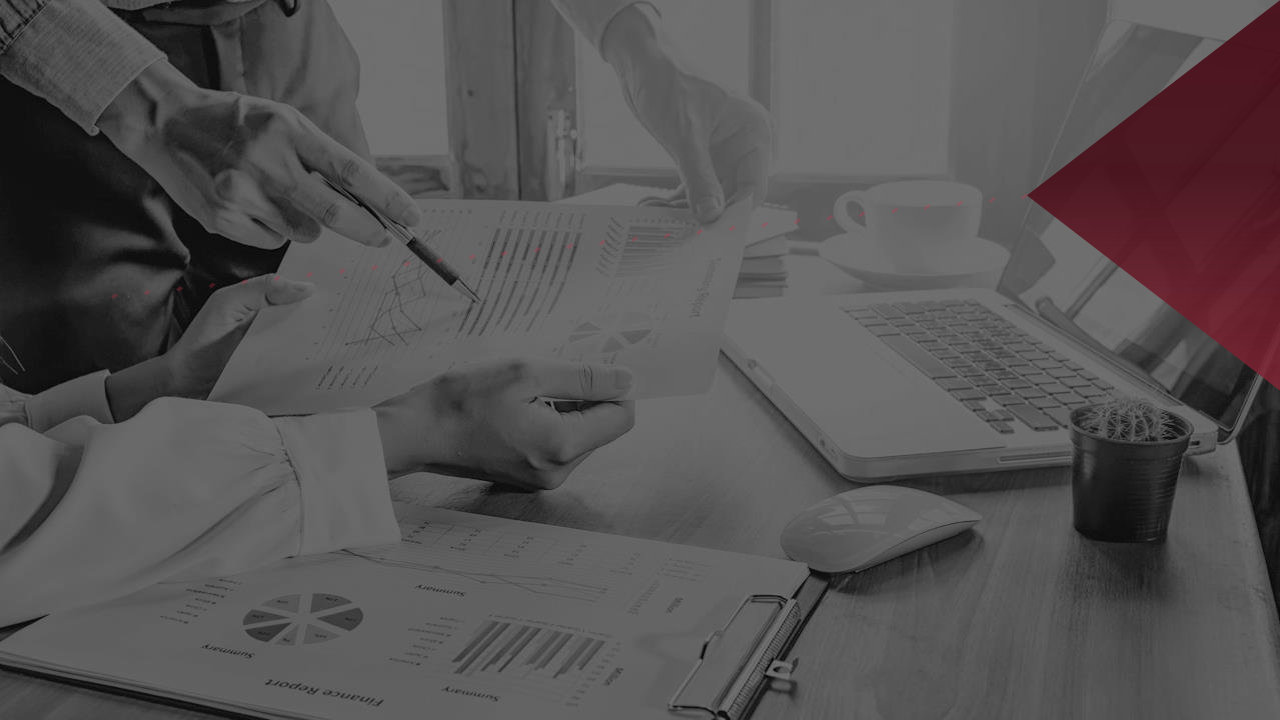
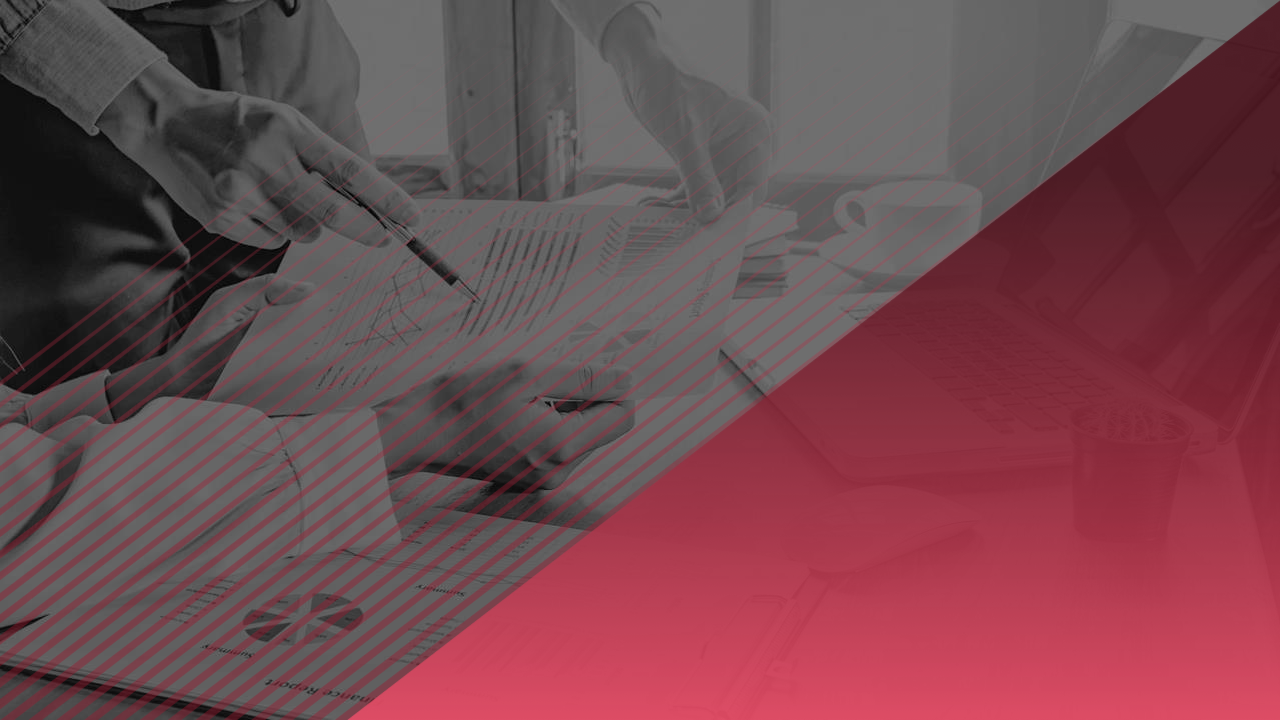
Se completo el esilo de colores de la tabla para la presentacion

diff --git a/src/main/java/com/organizame/reportes/service/ReportePresentacionService.java b/src/main/java/com/organizame/reportes/service/ReportePresentacionService.java
@@ -4,7 +4,6 @@ import com.organizame.reportes.dto.DaoPeriodo;
 import com.organizame.reportes.dto.DaoResumenPeriodo;
 import com.organizame.reportes.dto.FilaTabla;
 import com.organizame.reportes.dto.auxiliar.Acumulado;
-import com.organizame.reportes.dto.auxiliar.PortadaTotales;
 import com.organizame.reportes.dto.request.RequestOrigen;
 import com.organizame.reportes.exceptions.GraficaException;
 import com.organizame.reportes.exceptions.SinDatos;
@@ -13,11 +12,8 @@ import com.organizame.reportes.utils.excel.dto.PosicionGrafica;
 import com.organizame.reportes.utils.graficas.graficas2;
 import com.organizame.reportes.utils.presentacion.CrearPresentacion;
 import com.organizame.reportes.utils.presentacion.TipoDiapositiva;
+import com.organizame.reportes.utils.presentacion.dto.ColorPresentacion;
 import lombok.extern.slf4j.Slf4j;
-import org.apache.poi.xslf.usermodel.XMLSlideShow;
-import org.apache.poi.xslf.usermodel.XSLFAutoShape;
-import org.apache.poi.xslf.usermodel.XSLFShape;
-import org.apache.poi.xslf.usermodel.XSLFTextShape;
 import org.springframework.beans.factory.annotation.Autowired;
 import org.springframework.core.io.Resource;
 import org.springframework.core.io.ResourceLoader;
@@ -30,7 +26,6 @@ import java.time.LocalDate;
 import java.time.format.DateTimeFormatter;
 import java.util.ArrayList;
 import java.util.List;
-import java.util.Optional;
 import java.util.Set;
 
 @Slf4j
@@ -74,11 +69,12 @@ public class ReportePresentacionService {
                     request.getOrigen() + " en " + request.getMesReporte() + " meses antes de " + request.getMesFinal() );
         }
         this.nombreArchivo = "Ventas origen_" + request.getOrigen() + " " + request.getMesFinal().format(DateTimeFormatter.ofPattern("LLLL yyyy"));
+
         //Datos resumidos
         Set<DaoResumenPeriodo> filtrado = service.ResumeData(resultado);
 
         //Datos para hojas
-        CrearPresentacion presentacion = new CrearPresentacion(bg_contenido,  bg_portada);
+        CrearPresentacion presentacion = new CrearPresentacion(bg_contenido,  bg_portada, this.creaColoresBase());
         LocalDate fechaInicial = request.getMesFinal().minusMonths(request.getMesReporte());
         String fecha = fechaSmall.format(fechaInicial) + "-" + fechaSmall.format(request.getMesFinal());
 
@@ -96,21 +92,31 @@ public class ReportePresentacionService {
         var totalIndustria = service.getTotalIntustria();
         var totalOrigen = service.getTotalOrigen(request);
 
-        var portadaAcumulados = service.getPortadaAcumulados(filtrado, totalIndustria.orElse(0), totalOrigen.orElse(0));
+        var portadaAcumulados = service.getPortadaAcumulados(filtrado, totalIndustria.orElse(1), totalOrigen.orElse(1));
+        var acumuladoCorregido = portadaAcumulados.stream()
+                .map(acumulado -> {
+                    return new Acumulado(
+                            acumulado.getFabricante(),
+                            acumulado.getLineas(),
+                            acumulado.getVolumen(),
+                            acumulado.getPeso() * 100,
+                            acumulado.getPorcentajeIndustria() * 100
+                    );
+                })
+                .toList();
         var portadaTotales = service.getPortadaTotales(filtrado);
         // Genera portada
 
         var portada = presentacion.crearDiapositiva(TipoDiapositiva.PORTADA);
 
-
-        presentacion.creaTexto(portada, "ANÁLISIS VENTAS" +
-                "DE VEHÍCULOS\n" +
-                "DE ORIGEN " + request.getOrigen().toUpperCase(), new PosicionGrafica(100,42,30,30), "FAFAFA");
+        presentacion.creaTexto(portada, "ANÁLISIS VENTAS DE VEHÍCULOS DE ORIGEN "
+                        + request.getOrigen().toUpperCase(),
+                new PosicionGrafica(80,52,40,20), "Portada");
 
 
         var portada2 = presentacion.crearDiapositiva(TipoDiapositiva.CONTENIDO);
 
-        var portPos = new PosicionGrafica(2,2, 35, 35);
+        var portPos = new PosicionGrafica(2,2, 64, 35);
         presentacion.creaTexto(portada2, """
                         En la industria mexicana, 6 marcas
                         comercializan {{MODELOS}} vehículos de
@@ -118,21 +124,21 @@ public class ReportePresentacionService {
                         se vendieron {{UNIDADES}} unidades, lo que
                         representó una participación de
                         mercado del {{PARTICIPACION}}% del total de la industria
-                        """.replace("{{MODELOS}}", portadaAcumulados.getLast().getLineas().toString())
+                        """.replace("{{MODELOS}}", acumuladoCorregido.getLast().getLineas().toString())
                         .replace("{{ORIGEN}}", request.getOrigen().toUpperCase())
                         .replace("{{PERIODO}}", fecha)
-                        .replace("{{UNIDADES}}", portadaAcumulados.getLast().getVolumen().toString())
-                        .replace("{{PARTICIPACION}}", formatoDecimal.format(portadaAcumulados.getLast().getPorcentajeIndustria()*100))
-                , portPos, "#234325");
+                        .replace("{{UNIDADES}}", acumuladoCorregido.getLast().getVolumen().toString())
+                        .replace("{{PARTICIPACION}}", formatoDecimal.format(acumuladoCorregido.getLast().getPorcentajeIndustria()))
+                , portPos, "normal2");
 
         portPos.setRow(38);
 
-        var stellantis = portadaAcumulados.stream()
+        var stellantis = acumuladoCorregido.stream()
                         .filter(acu -> acu.getFabricante().equalsIgnoreCase("STELLANTIS"))
                                 .findFirst();
 
         if(stellantis.isPresent()) {
-            var posicion = portadaAcumulados.indexOf(stellantis);
+            var posicion = acumuladoCorregido.indexOf(stellantis);
             var posicionString = convertirNumeroAOrdinal(posicion);
             presentacion.creaTexto(portada2, """
                             En el periodo {{PERIODO}}, Stellantis se
@@ -144,40 +150,27 @@ public class ReportePresentacionService {
                             .replace("{{PERIODO}}", fecha)
                             .replace("{{POSICION}}", posicionString)
                             .replace("{{UNIDADES}}", stellantis.get().getVolumen().toString())
-                            .replace("{{PARTICIPACION}}", formatoDecimal.format(stellantis.get().getPorcentajeIndustria()*100))
-                    , portPos, "#234325");
+                            .replace("{{PARTICIPACION}}", formatoDecimal.format(stellantis.get().getPorcentajeIndustria()))
+                    , portPos, "normal");
         }
 
         var portHeader = new FilaTabla("Encabezado", List.of("Marcas", "Número de lineas", "Volumen", "Peso", "% MS Industria total"));
         List<FilaTabla> acumuladosTabla = new ArrayList<>();
         acumuladosTabla.add(portHeader);
-        acumuladosTabla.addAll(portadaAcumulados.stream().map(Acumulado::getFilaTabla).toList());
+        acumuladosTabla.addAll(acumuladoCorregido.stream().map(acumulado -> acumulado.getFilaTabla(this.formatoDecimal)).toList());
         //Se imprime la tabla de acumulados
+        portPos.setCol(66);
+        portPos.setRow(2);
+        portPos.setAlto(70);
         presentacion.creaTablaEstilo(portada2, acumuladosTabla, portPos);
-        portPos.setCol(2);
-        portPos.addRows(2);
 
-        presentacion.creaTexto(portada2, "Total Industria " + fecha, portPos, "#232323");
-        portPos.addRows(1);
-
-        portPos.setCol(2);
-        var portResHeader = new FilaTabla("Encabezado",
-                List.of("Periodo", "Ventas modelos de origen " + request.getOrigen(), "Ventas totales de la Industria",
-                        "% de Market share"));
-        List<FilaTabla> vasmensuales = new ArrayList<>();
-        vasmensuales.add(portResHeader);
-        vasmensuales.addAll(portadaTotales.stream().map(PortadaTotales::getFilaTabla).toList());
-
-        presentacion.creaTablaEstilo(portada2, vasmensuales, portPos);
-
-
-
-
-        var tituloGrafica = "Ventas por Origen Brasil, Industria y Market Share";
         try {
-            presentacion.insertarGrafica(portada, graficas.createComboChart(tituloGrafica, portadaTotales, request.getOrigen()),
-                    new PosicionGrafica(200, 50, 160, 100),
-                    new PosicionGrafica(200, 50, 160, 100));
+            var grafica = presentacion.crearDiapositiva(TipoDiapositiva.CONTENIDO);
+            var tituloGrafica = "Ventas por Origen Brasil, Industria y Market Share";
+
+            presentacion.insertarGrafica(grafica, graficas.createComboChart(tituloGrafica, portadaTotales, request.getOrigen()),
+                    new PosicionGrafica(200, 50, 1600, 1000),
+                    new PosicionGrafica(66, 2, 64, 72));
         }catch (GraficaException e){
             log.info("Fallo la creacion de la grafica por: {}" , e.getMessage());
         }
@@ -322,5 +315,22 @@ public class ReportePresentacionService {
             case 10 -> "DÉCIMO";
             default -> String.valueOf(numero); // Si es mayor a 10, devuelve el número como cadena
         };
+    }
+
+    private List<ColorPresentacion> creaColoresBase(){
+        List<ColorPresentacion> colores = new ArrayList<>();
+        colores.add(new ColorPresentacion("Portada", "FFFFFF", "FAFAFA", 18, true));
+        colores.add(new ColorPresentacion("Normal", "FFFFFF", "002B7F", 16, true));
+        colores.add(new ColorPresentacion("Titulo", "FFFFFF", "000000", 18, true));
+        colores.add(new ColorPresentacion("Destacado", "FFFFFF", "FF0000", 18, true));
+        colores.add(new ColorPresentacion("Normal2", "FFFFFF", "373F66", 18, true));
+        colores.add(new ColorPresentacion("Numeracion", "F6C6CE", "9B182E", 18, true));
+        // Colores de tablas
+        colores.add(new ColorPresentacion("Encabezado", "002B7F", "FAFAFA", 12, true));
+        colores.add(new ColorPresentacion("Estandar", "FFFFFF", "000000", 11, false));
+        colores.add(new ColorPresentacion("Stellantis", "96938E", "FAFAFA", 11, false));
+        colores.add(new ColorPresentacion("RowOdd", "FAFAFA", "000000", 11, false));
+        colores.add(new ColorPresentacion("TOTAL", "000000", "FAFAFA", 11, true));
+        return colores;
     }
 }

diff --git a/src/main/java/com/organizame/reportes/utils/presentacion/CrearPresentacion.java b/src/main/java/com/organizame/reportes/utils/presentacion/CrearPresentacion.java
@@ -4,11 +4,12 @@ import com.organizame.reportes.dto.FilaTabla;
 import com.organizame.reportes.exceptions.ColorExcepcion;
 import com.organizame.reportes.exceptions.GraficaException;
 import com.organizame.reportes.exceptions.PresentacionException;
-import com.organizame.reportes.utils.Utilidades;
 import com.organizame.reportes.utils.excel.dto.*;
 import com.organizame.reportes.utils.presentacion.dto.ColorPresentacion;
 import lombok.extern.slf4j.Slf4j;
 import org.apache.poi.sl.usermodel.PictureData;
+import org.apache.poi.sl.usermodel.StrokeStyle;
+import org.apache.poi.sl.usermodel.TableCell;
 import org.apache.poi.xslf.usermodel.*;
 import org.jfree.chart.JFreeChart;
 import org.springframework.core.io.Resource;
@@ -89,17 +90,18 @@ public class CrearPresentacion {
 
 
 
-    public void creaTexto(XSLFSlide diapositiva, String texto, PosicionGrafica portPos, String color)  throws PresentacionException, ColorExcepcion {
+    public void creaTexto(XSLFSlide diapositiva, String texto, PosicionGrafica portPos, String colorNombre)  throws PresentacionException, ColorExcepcion {
+        var color = this.getColorPresentacion(colorNombre);
         XSLFTextBox textBox = diapositiva.createTextBox();
         textBox.setAnchor(this.getRectangle(portPos));
 
         XSLFTextParagraph paragraph = textBox.addNewTextParagraph();
         XSLFTextRun run = paragraph.addNewTextRun();
         run.setText(texto);
-        run.setFontSize(14.0);
-        run.setFontColor(Utilidades.convierteRGB(color));
+        run.setFontSize(color.getFontSize());
+        run.setFontColor(color.getFontColor());
         run.setFontFamily("Tahoma");
-        run.setBold(true);
+        run.setBold(color.isBold());
 
 
     }
@@ -116,6 +118,7 @@ public class CrearPresentacion {
 
     private void aplicaEstiloFila(XSLFTable tabla, FilaTabla fila,  int row){
         var estilo = this.getColorPresentacion(fila.getNombreEstilo());
+        log.info("Se recupero el estilo {} para {}", estilo, fila.getNombreEstilo());
         for (int col = 0; col < tabla.getNumberOfColumns(); col++) {
 
             XSLFTableCell cell = tabla.getCell(row, col);
@@ -127,6 +130,12 @@ public class CrearPresentacion {
             run.setFontSize(estilo.getFontSize());
             run.setFontColor(estilo.getFontColor());
             run.setBold(estilo.isBold());
+
+            // Aplicar bordes negros finos
+            cell.setBorderCap(TableCell.BorderEdge.bottom, StrokeStyle.LineCap.FLAT);
+            cell.setBorderCap(TableCell.BorderEdge.top, StrokeStyle.LineCap.FLAT);
+            cell.setBorderCap(TableCell.BorderEdge.left, StrokeStyle.LineCap.FLAT);
+            cell.setBorderCap(TableCell.BorderEdge.right, StrokeStyle.LineCap.FLAT);
         }
     }
 
@@ -150,9 +159,10 @@ public class CrearPresentacion {
     }
 
     private void insertarImagen(XSLFSlide diapositiva, PosicionGrafica posicionGrafica, byte[] byteArray) {
+        log.info("Se insertara la imagen en {}, la imagen mide {} bytes", posicionGrafica, byteArray.length);
         XSLFPictureData pictureData = diapositiva.getSlideShow().addPicture(byteArray, PictureData.PictureType.PNG);
-        var picture = diapositiva.createPicture(pictureData);
 
+        var picture = diapositiva.createPicture(pictureData);
         // Definir posición y tamaño
         picture.setAnchor(this.getRectangle(posicionGrafica));
     }

diff --git a/src/main/java/com/organizame/reportes/utils/excel/ColorExcel.java b/src/main/java/com/organizame/reportes/utils/excel/ColorExcel.java
@@ -1,6 +1,5 @@
 package com.organizame.reportes.utils.excel;
 
-
 import com.organizame.reportes.exceptions.ColorExcepcion;
 import com.organizame.reportes.exceptions.ExcelException;
 import com.organizame.reportes.utils.Utilidades;
@@ -10,10 +9,6 @@ import lombok.extern.slf4j.Slf4j;
 import org.apache.poi.xssf.usermodel.XSSFColor;
 
 import java.awt.*;
-import java.util.List;
-import java.util.Objects;
-import java.util.regex.Matcher;
-import java.util.regex.Pattern;
 
 /**
  *
@@ -34,31 +29,11 @@ public class ColorExcel {
         this.odd = ConvierteRGB(odd);
     }
 
-    public ColorExcel(String nombre, List<Integer> normal, List<Integer> odd) throws ExcelException {
-        this.nombre = nombre;
-        this.normal = ConvierteRGB(normal);
-        this.odd = ConvierteRGB(odd);
-    }
-
-    public ColorExcel(String nombre, XSSFColor normal, XSSFColor odd) {
-        this.nombre = nombre;
-        this.normal = normal;
-        this.odd = odd;
-    }
-
     public XSSFColor ConvierteRGB(String valor) throws ExcelException {
         try {
             return new XSSFColor(Utilidades.convierteRGB(valor), null);
         }catch (ColorExcepcion e){
             throw new ExcelException(e.getMessage());
-        }
-    }
-
-    private XSSFColor ConvierteRGB(List<Integer> valor) throws ExcelException {
-        try {
-            return new XSSFColor(new Color(valor.get(0), valor.get(1), valor.get(2)), null);
-        } catch (Exception e) {
-            throw new ExcelException("El color no es valido");
         }
     }
 

diff --git a/src/main/java/com/organizame/reportes/dto/auxiliar/Acumulado.java b/src/main/java/com/organizame/reportes/dto/auxiliar/Acumulado.java
@@ -3,6 +3,8 @@ package com.organizame.reportes.dto.auxiliar;
 import com.organizame.reportes.dto.FilaTabla;
 import lombok.AllArgsConstructor;
 import lombok.Data;
+
+import java.text.DecimalFormat;
 import java.util.*;
 
 @Data
@@ -17,5 +19,12 @@ public class Acumulado {
     public FilaTabla getFilaTabla(){
         var estilo = fabricante.equalsIgnoreCase("Stellantis") ? "Stellantis" : "Estandar";
         return new FilaTabla(estilo, List.of(fabricante, lineas, volumen, peso, porcentajeIndustria));
+    }
+
+    public FilaTabla getFilaTabla(DecimalFormat formato){
+        var estilo = fabricante.equalsIgnoreCase("Stellantis") ? "Stellantis" : "Estandar";
+        estilo = fabricante.equalsIgnoreCase("TOTAL") ? "TOTAL" : estilo;
+        return new FilaTabla(estilo, List.of(fabricante, lineas, volumen
+                , formato.format(peso)+"%", formato.format(porcentajeIndustria)+"%"));
     }
 }
